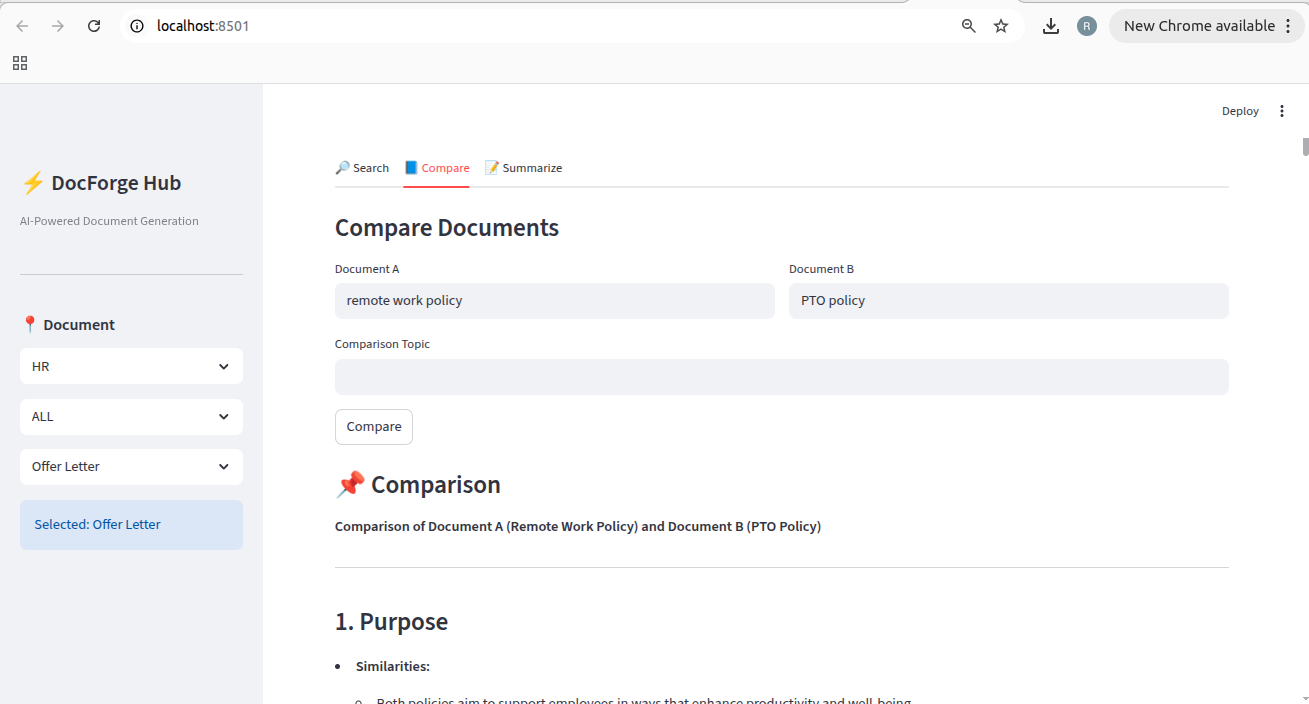
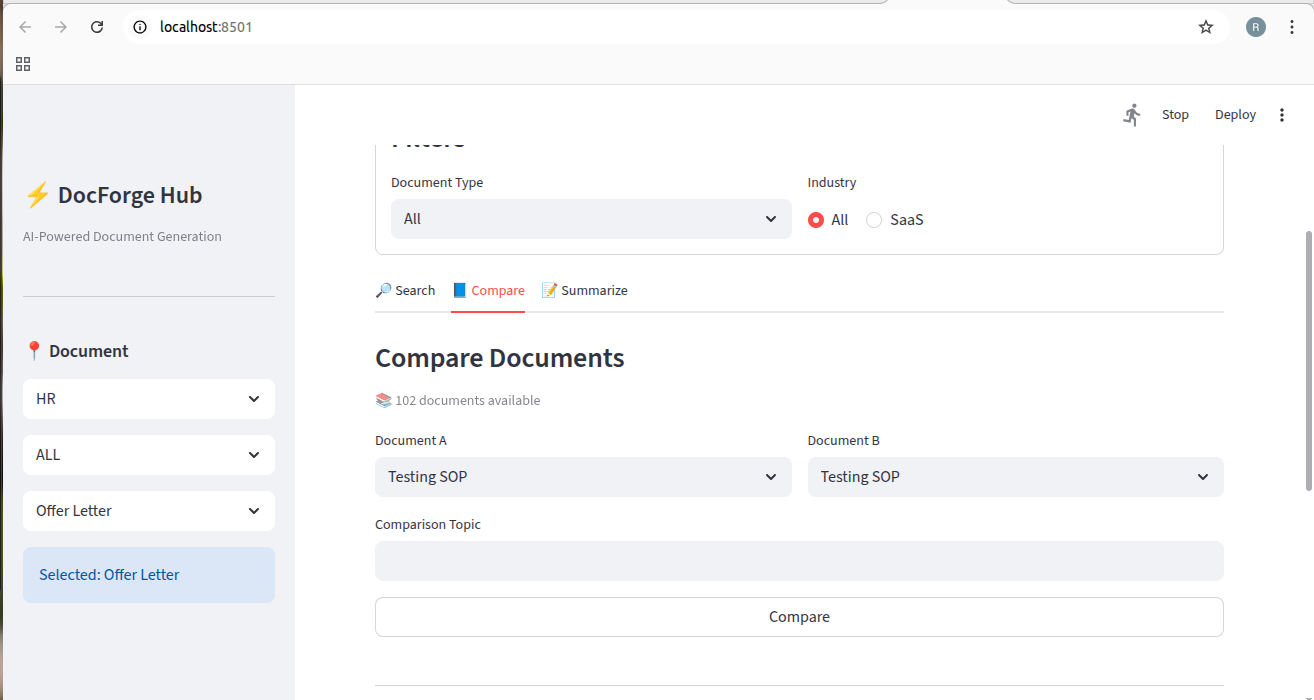
change in UI

diff --git a/ui.py b/ui.py
@@ -963,75 +963,92 @@ with tab_rag:
             key="rag_question"
         )
 
-        if question:
-            with st.spinner("Searching knowledge base..."):
-                try:
-                    response = requests.post(
-                        f"{API_BASE_URL}/documents/rag-query",
-                        json={
-                            "question": question,
-                            "doc_type": doc_type_filter,
-                            "industry": industry_filter
-                        }
-                    )
-                    result = response.json()
-                    # st.write(result)
+        ask_clicked = st.button("Ask", use_container_width=False)
 
-                    # 🔍 Refined Query
-                    st.markdown("### 🔍 Refined Query")
-                    st.write(result.get("refined_query", question))
+        if ask_clicked:
+            if not question:
+                st.warning("Please enter a question")
+            else:
+                with st.spinner("Searching knowledge base..."):
+                    try:
+                        response = requests.post(
+                            f"{API_BASE_URL}/documents/rag-query",
+                            json={
+                                "question": question,
+                                "doc_type": doc_type_filter,
+                                "industry": industry_filter
+                            }
+                        )
+                        result = response.json()
 
-                    # 📌 Answer
-                    st.markdown("### 📌 Answer")
-                    st.write(result.get("answer", "No answer found"))
+                        # 🔍 Refined Query
+                        st.markdown("### 🔍 Refined Query")
+                        st.write(result.get("refined_query", question))
 
-                    # 📊 Confidence
-                    st.markdown("### 📊 Confidence")
+                        # 📌 Answer
+                        st.markdown("### 📌 Answer")
+                        st.write(result.get("answer", "No answer found"))
 
-                    confidence_score = result.get("confidence_score", 0)
-                    # confidence = result.get("confidence", "UNKNOWN")
+                        # 📊 Confidence
+                        st.markdown("### 📊 Confidence")
 
-                    st.markdown(f"**Confidence Score:** {confidence_score}%")
-                    st.progress(confidence_score / 100)
+                        confidence_score = result.get("confidence_score", 0)
 
-                    # if confidence == "HIGH":
-                    #     st.success("Confidence: HIGH ✅ (Strong match with documents)")
-                    # elif confidence == "MEDIUM":
-                    #     st.warning("Confidence: MEDIUM ⚠ (Partial match found)")
-                    # elif confidence == "LOW":
-                    #     st.error("Confidence: LOW ❌ (Weak or no reliable match)")
-                    # else:
-                    #     st.info("Confidence: UNKNOWN")
+                        st.markdown(f"**Confidence Score:** {confidence_score}%")
+                        st.progress(confidence_score / 100)
 
-                    # 📚 Sources
-                    st.markdown("### 📚 Sources")
-                    for source in result.get("sources", []):
-                        st.write(f"• {source}")
+                        # 📚 Sources
+                        st.markdown("### 📚 Sources")
+                        for source in result.get("sources", []):
+                            st.write(f"• {source}")
 
-                    # 🔎 Context
-                    st.markdown("### 🔎 Retrieved Context")
-                    for chunk in result.get("chunks", []):
-                        with st.expander(f"{chunk['doc_title']} → {chunk['section']}"):
-                            st.write(chunk["text"])
-                            st.caption(f"Score: {chunk.get('score', 0):.3f}")
-                except Exception as e:
-                    st.error(f"Query failed: {e}")
+                        # 🔎 Context
+                        st.markdown("### 🔎 Retrieved Context")
+                        for chunk in result.get("chunks", []):
+                            with st.expander(f"{chunk['doc_title']} → {chunk['section']}"):
+                                st.write(chunk["text"])
+                                st.caption(f"Score: {chunk.get('score', 0):.3f}")
+                    except Exception as e:
+                        st.error(f"Query failed: {e}")
 
     # ======================================================
-    # 📘 COMPARE TAB
+    # 📘 COMPARE TAB (UPDATED)
     # ======================================================
     with tool_tabs[1]:
         st.subheader("Compare Documents")
+
+        # 🔥 Fetch from Notion directly
+        try:
+            from backend.rag.notion_reader import get_all_document_titles
+
+            available_docs = get_all_document_titles()
+
+        except Exception as e:
+            available_docs = []
+            st.warning(f"⚠ Unable to fetch documents from Notion: {e}")
+
+        # 📊 Show count
+        st.caption(f"📚 {len(available_docs)} documents available")
+
+        # ---------------- DROPDOWN ----------------
         col1, col2 = st.columns(2)
         with col1:
-            doc_a = st.text_input("Document A", key="compare_doc_a")
+            doc_a = st.selectbox("Document A", available_docs, key="compare_doc_a_dropdown")
         with col2:
-            doc_b = st.text_input("Document B", key="compare_doc_b")
+            doc_b = st.selectbox("Document B", available_docs, key="compare_doc_b_dropdown")
+
+
+        is_valid_search = True
+
+        # ---------------- TOPIC ----------------
         topic = st.text_input("Comparison Topic", key="compare_topic")
-        
-        if st.button("Compare", use_container_width=True):
+
+        # ---------------- COMPARE BUTTON ----------------
+        if st.button("Compare", use_container_width=False, disabled=not is_valid_search):
+
             if not doc_a or not doc_b:
-                st.warning("Please enter both document names")
+                st.warning("Please select both documents")
+
             else:
                 with st.spinner("Comparing documents..."):
                     try:
@@ -1043,12 +1060,16 @@ with tab_rag:
                                 "topic": topic
                             }
                         )
+
                         result = response.json()
+
                         st.markdown("### 📌 Comparison")
                         st.write(result.get("answer", ""))
+
                         st.markdown("### 📚 Sources")
                         for s in result.get("sources", []):
                             st.write(f"• {s}")
+
                     except Exception as e:
                         st.error(f"Comparison failed: {e}")
 
@@ -1061,7 +1082,7 @@ with tab_rag:
             "Enter document name or topic",
             key="summary_query"
         )
-        if st.button("Summarize", use_container_width=True):
+        if st.button("Summarize", use_container_width=False):
             if not summary_query:
                 st.warning("Please enter something to summarize")
             else:
@@ -1084,7 +1105,7 @@ with tab_rag:
 
     st.divider()
     st.subheader("📊 RAG Evaluation")
-    if st.button("Run Evaluation", use_container_width=True):
+    if st.button("Run Evaluation", use_container_width=False):
         with st.spinner("Running evaluation... ⏳"):
             response = requests.post(f"{API_BASE_URL}/documents/rag-evaluate")
         if response.status_code == 200:

diff --git a/backend/rag/compare_engine.py b/backend/rag/compare_engine.py
@@ -5,6 +5,20 @@ from langchain_core.messages import SystemMessage, HumanMessage
 retriever = Retriever()
 llm = get_llm()
 
+def filter_chunks_by_topic(chunks, topic):
+    if not topic:
+        return chunks
+
+    topic = topic.lower()
+
+    filtered = [
+        c for c in chunks
+        if topic in c["text"].lower()
+        or topic in c["section"].lower()
+    ]
+
+    return filtered if filtered else chunks  # fallback if nothing found
+
 
 def compare_documents(doc_a, doc_b, topic=""):
     """
@@ -22,8 +36,11 @@ def compare_documents(doc_a, doc_b, topic=""):
     """
 
     # Retrieve chunks for both documents
-    chunks_a = retriever.search(doc_a + " " + topic, k=4)
-    chunks_b = retriever.search(doc_b + " " + topic, k=4)
+    chunks_a = retriever.search(doc_a, k=6)
+    chunks_b = retriever.search(doc_b, k=6)
+
+    chunks_a = filter_chunks_by_topic(chunks_a, topic)
+    chunks_b = filter_chunks_by_topic(chunks_b, topic)
 
     context_a = "\n".join(
         [f"{c['doc_title']} → {c['section']}: {c['text']}" for c in chunks_a]
@@ -63,10 +80,10 @@ Document B: {doc_b}
 
 --------------------------------------
 
-1. Key Similarities (Concise Insights)
+1. Key Similarities
 - Focus on meaningful overlaps (not generic statements)
 
-2. Critical Differences (Structured)
+2. Critical Differences
 - ONLY include dimensions that are explicitly supported by the context
 - DO NOT force all dimensions
 - Use format:
@@ -77,6 +94,7 @@ Document B: {doc_b}
 
 3. Executive Summary (2-3 lines)
 Provide a high-level comparison highlighting the core difference in purpose.
+
 """
 
     response = llm.invoke([

diff --git a/backend/api/routes/documents.py b/backend/api/routes/documents.py
@@ -901,6 +901,25 @@ def rag_compare(data: dict):
     if not doc_a or not doc_b:
         raise HTTPException(status_code=400, detail="doc_a and doc_b required")
 
+    # 🔥 STEP 1: Get available document names from retriever
+    from backend.rag.notion_reader import get_all_document_titles
+
+    available_docs = get_all_document_titles()
+
+    # 🔥 STEP 2: Strict validation
+    if doc_a not in available_docs:
+        return {
+            "answer": f"❌ Document A '{doc_a}' not found in knowledge base.\n\nAvailable documents:\n- " + "\n- ".join(available_docs),
+            "sources": []
+        }
+
+    if doc_b not in available_docs:
+        return {
+            "answer": f"❌ Document B '{doc_b}' not found in knowledge base.\n\nAvailable documents:\n- " + "\n- ".join(available_docs),
+            "sources": []
+        }
+
+    # 🔥 STEP 3: Only if valid → run comparison
     return compare_documents(doc_a, doc_b, topic)
 
 @router.post("/rag-summarize")
@@ -947,6 +966,12 @@ def rag_evaluate():
     logger.info("/rag-evaluate started")
 
     df = run_evaluation()
+
+    if df is None or df.empty:
+        raise HTTPException(
+            status_code=500,
+            detail="Evaluation failed: No data returned"
+        )
 
     logger.info("Evaluation completed")
 

diff --git a/backend/rag/query_search_engine.py b/backend/rag/query_search_engine.py
@@ -74,16 +74,7 @@ def calculate_confidence(chunks):
     confidence_score = 1 / (1 + best_score)   # normalize
     confidence_percent = round(confidence_score * 100)
 
-    # #  Map to levels
-    # if best_score < 0.5:
-    #     level = "HIGH"
-    # elif best_score < 1.0:
-    #     level = "MEDIUM"
-    # else:
-    #     level = "LOW"
-
     return {
-        # "level": level,
         "score": confidence_percent
     }
     
@@ -199,19 +190,14 @@ If the answer is not present in the context, say:
 
     confidence_data = calculate_confidence(chunks)
 
-    #confidence filter
-    # if confidence_data["level"] == "LOW":
-    #     answer = "Not Available"
 
     logger.info(f"Answer generated: {answer}")
-    # logger.info(f"Confidence: {confidence_data['level']}")
     #  Step 4: Return result
     result = {
         "answer": answer,
         "sources": list(set(sources)),
         "chunks": chunks,
         "refined_query": refined_question,
-        # "confidence": confidence_data["level"],
         "confidence_score": confidence_data["score"],
         "cache_hit": False
     }

diff --git a/backend/rag/notion_reader.py b/backend/rag/notion_reader.py
@@ -22,6 +22,26 @@ DATABASE_ID = os.getenv("NOTION_DATABASE_ID")
 
 notion = Client(auth=NOTION_TOKEN)
 
+def get_all_document_titles():
+    """
+    Extract clean document titles from Notion pages
+    """
+    pages = fetch_all_pages()
+
+    titles = []
+
+    for page in pages:
+        props = page.get("properties", {})
+
+        title_data = props.get("Name", {}).get("title", [])
+
+        if title_data:
+            title = title_data[0].get("plain_text", "").strip()
+            if title:
+                titles.append(title)
+
+    return list(set(titles))
+
 
 def fetch_all_pages():
     """

diff --git a/backend/rag/evaluate.py b/backend/rag/evaluate.py
@@ -164,11 +164,10 @@ def run_evaluation():
         "outputs": results_data
     }
 
-    with open("backend/rag/eval_results.json", "w") as f:
-        json.dump(final_output, f, indent=2)
+    # Optional: log only
+    print("Evaluation completed")
 
-    print("✅ Evaluation saved to eval_results.json")
-
+    return eval_df
 
 if __name__ == "__main__":
     run_evaluation()
